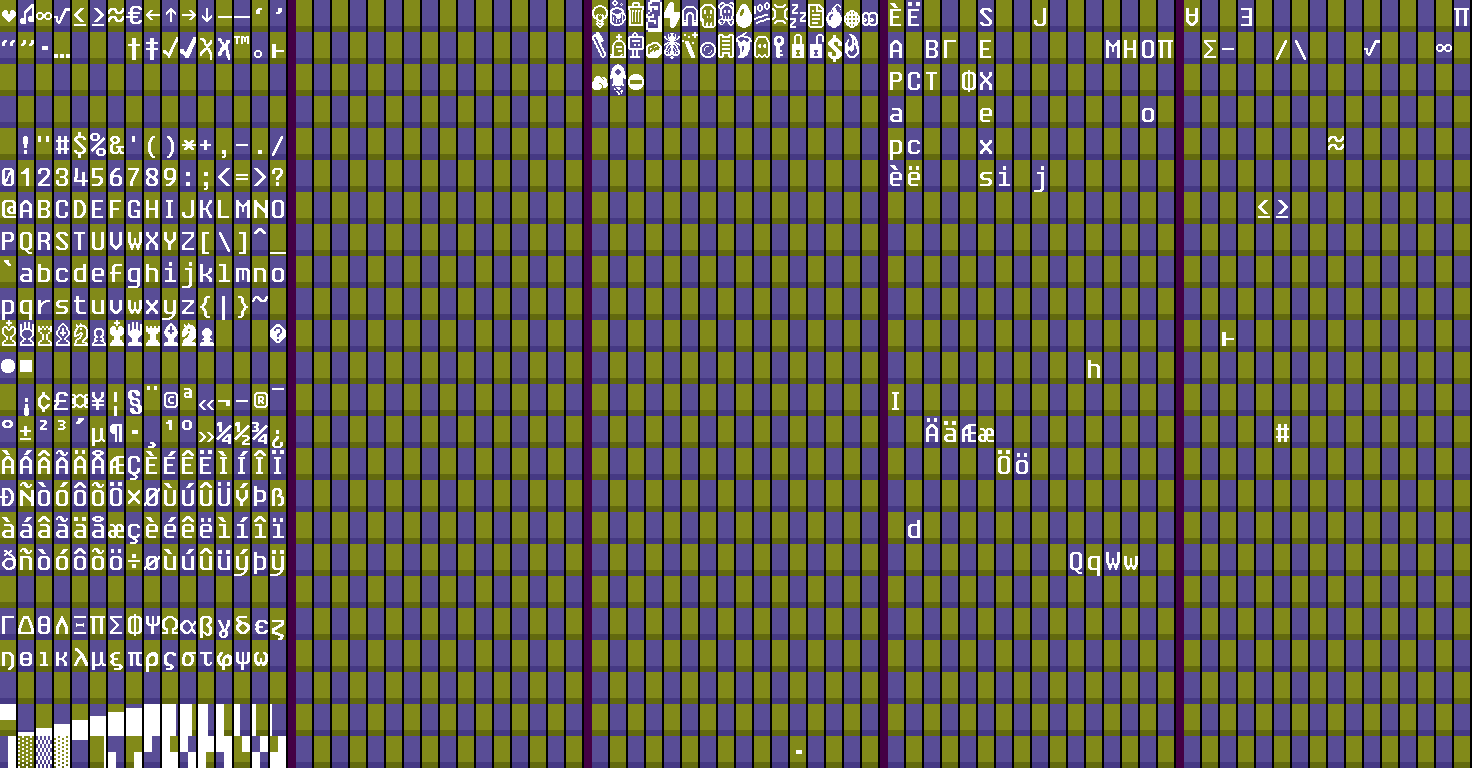
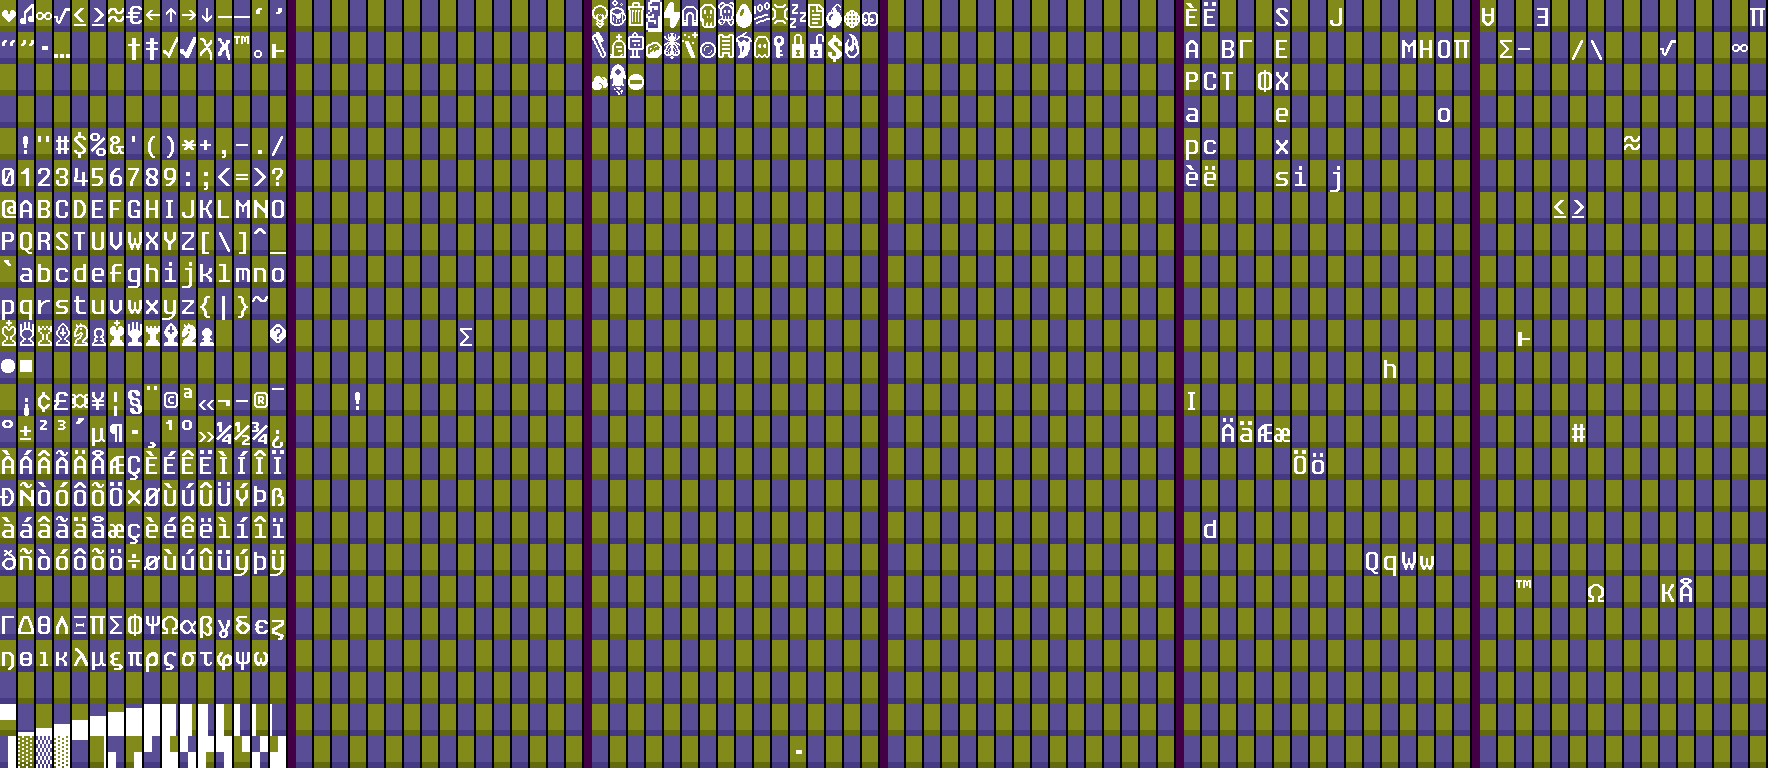
More hand anti-aliasing for 2x. Add extended2 page fixedersys family.
git-svn-id: file:///home/runner/work/tom7misc-sync-action/tom7misc-sync-action/upstream/trunk@6560 c7e11af0-4c7a-11f1-9edd-117cb6f09d55

diff --git a/bit7/font-image.cc b/bit7/font-image.cc
@@ -26,6 +26,7 @@ Page Config::ParsePage(const std::string &p) {
   if (p == "bit7-classic") return Page::BIT7_CLASSIC;
   if (p == "bit7-latinab") return Page::BIT7_LATINAB;
   if (p == "bit7-extended") return Page::BIT7_EXTENDED;
+  if (p == "bit7-extended2") return Page::BIT7_EXTENDED2;
   if (p == "bit7-cyrillic") return Page::BIT7_CYRILLIC;
   if (p == "bit7-math") return Page::BIT7_MATH;
   LOG(FATAL) << "Unknown page " << p;
@@ -39,6 +40,8 @@ const char *Config::PageString(Page p) {
     return "bit7-latinab";
   case Page::BIT7_EXTENDED:
     return "bit7-extended";
+  case Page::BIT7_EXTENDED2:
+    return "bit7-extended2";
   case Page::BIT7_CYRILLIC:
     return "bit7-cyrillic";
   case Page::BIT7_MATH:
@@ -814,6 +817,88 @@ const std::vector<int> &PageBit7Extended() {
 }
 
 
+// Standard size is: 16x24
+const std::vector<int> &PageBit7Extended2() {
+  static const std::vector<int> CODEPOINTS = {
+    // Unicode superscripts and subscripts. Note that
+    // there are some codepoints unassigned, and some
+    // of these symbols appear in other blocks.
+    0x2070, // (⁰) Superscript Zero
+    0x2071, // (ⁱ) Superscript Latin Small Letter I
+    0x2074, // (⁴) Superscript Four
+    0x2075, // (⁵) Superscript Five
+    0x2076, // (⁶) Superscript Six
+    0x2077, // (⁷) Superscript Seven
+    0x2078, // (⁸) Superscript Eight
+    0x2079, // (⁹) Superscript Nine
+    0x207A, // (⁺) Superscript Plus Sign
+    0x207B, // (⁻) Superscript Minus
+    0x207C, // (⁼) Superscript Equals Sign
+    0x207D, // (⁽) Superscript Left Parenthesis
+    0x207E, // (⁾) Superscript Right Parenthesis
+    0x207F, // (ⁿ) Superscript Latin Small Letter N
+    0x2080, // (₀) Subscript Zero
+
+    0x2081, // (₁) Subscript One
+    0x2082, // (₂) Subscript Two
+    0x2083, // (₃) Subscript Three
+    0x2084, // (₄) Subscript Four
+    0x2085, // (₅) Subscript Five
+    0x2086, // (₆) Subscript Six
+    0x2087, // (₇) Subscript Seven
+    0x2088, // (₈) Subscript Eight
+    0x2089, // (₉) Subscript Nine
+    0x208A, // (₊) Subscript Plus Sign
+    0x208B, // (₋) Subscript Minus
+    0x208C, // (₌) Subscript Equals Sign
+    0x208D, // (₍) Subscript Left Parenthesis
+    0x208E, // (₎) Subscript Right Parenthesis
+    0x2090, // (ₐ) Latin Subscript Small Letter A
+
+    0x2091, // (ₑ) Latin Subscript Small Letter E
+    0x2092, // (ₒ) Latin Subscript Small Letter O
+    0x2093, // (ₓ) Latin Subscript Small Letter X
+    0x2094, // (ₔ) Latin Subscript Small Letter Schwa
+    0x2095, // (ₕ) Latin Subscript Small Letter H
+    0x2096, // (ₖ) Latin Subscript Small Letter K
+    0x2097, // (ₗ) Latin Subscript Small Letter L
+    0x2098, // (ₘ) Latin Subscript Small Letter M
+    0x2099, // (ₙ) Latin Subscript Small Letter N
+    0x209A, // (ₚ) Latin Subscript Small Letter P
+    0x209B, // (ₛ) Latin Subscript Small Letter S
+    0x209C, // (ₜ) Latin Subscript Small Letter T
+
+    // Unused
+    -1, -1, -1, -1, -1, -1,
+
+    -1, -1, -1, -1, -1, -1, -1, -1, -1, -1, -1, -1, -1, -1, -1, -1,
+    -1, -1, -1, -1, -1, -1, -1, -1, -1, -1, -1, -1, -1, -1, -1, -1,
+    -1, -1, -1, -1, -1, -1, -1, -1, -1, -1, -1, -1, -1, -1, -1, -1,
+    -1, -1, -1, -1, -1, -1, -1, -1, -1, -1, -1, -1, -1, -1, -1, -1,
+    -1, -1, -1, -1, -1, -1, -1, -1, -1, -1, -1, -1, -1, -1, -1, -1,
+    -1, -1, -1, -1, -1, -1, -1, -1, -1, -1, -1, -1, -1, -1, -1, -1,
+    -1, -1, -1, -1, -1, -1, -1, -1, -1, -1, -1, -1, -1, -1, -1, -1,
+    -1, -1, -1, -1, -1, -1, -1, -1, -1, -1, -1, -1, -1, -1, -1, -1,
+    -1, -1, -1, -1, -1, -1, -1, -1, -1, -1, -1, -1, -1, -1, -1, -1,
+
+    -1, -1, -1, -1, -1, -1, -1, -1, -1, -1, -1, -1, -1, -1, -1, -1,
+    -1, -1, -1, -1, -1, -1, -1, -1, -1, -1, -1, -1, -1, -1, -1, -1,
+    -1, -1, -1, -1, -1, -1, -1, -1, -1, -1, -1, -1, -1, -1, -1, -1,
+    -1, -1, -1, -1, -1, -1, -1, -1, -1, -1, -1, -1, -1, -1, -1, -1,
+    -1, -1, -1, -1, -1, -1, -1, -1, -1, -1, -1, -1, -1, -1, -1, -1,
+    -1, -1, -1, -1, -1, -1, -1, -1, -1, -1, -1, -1, -1, -1, -1, -1,
+    -1, -1, -1, -1, -1, -1, -1, -1, -1, -1, -1, -1, -1, -1, -1, -1,
+    -1, -1, -1, -1, -1, -1, -1, -1, -1, -1, -1, -1, -1, -1, -1, -1,
+    -1, -1, -1, -1, -1, -1, -1, -1, -1, -1, -1, -1, -1, -1, -1, -1,
+    -1, -1, -1, -1, -1, -1, -1, -1, -1, -1, -1, -1, -1, -1, -1, -1,
+    -1, -1, -1, -1, -1, -1, -1, -1, -1, -1, -1, -1, -1, -1, -1, -1,
+    -1, -1, -1, -1, -1, -1, -1, -1, -1, -1, -1, -1, -1, -1, -1, -1,
+  };
+
+  CHECK(CODEPOINTS.size() == 16 * 24) << CODEPOINTS.size();
+  return CODEPOINTS;
+};
+
 const std::vector<int> &PageBit7Cyrillic() {
   static const std::vector<int> CODEPOINTS = {
     // Cyrillic, exactly as Unicode U+0400 to U+04FF.
@@ -1550,6 +1635,7 @@ static const std::vector<int> &GetCodepointsForPage(Page p) {
   case Page::BIT7_CLASSIC: return PageBit7Classic();
   case Page::BIT7_LATINAB: return PageBit7LatinAB();
   case Page::BIT7_EXTENDED: return PageBit7Extended();
+  case Page::BIT7_EXTENDED2: return PageBit7Extended2();
   case Page::BIT7_CYRILLIC: return PageBit7Cyrillic();
   case Page::BIT7_MATH: return PageBit7Math();
   }
@@ -1684,6 +1770,9 @@ REUSE_FOR = {
 
   {0x04E0, 0x01B7}, // Cyrillic Capital Abkhasian Dze -> Ezh
   {0x04E1, 0x0292}, // Lowercase dze -> ezh
+
+  // Math black star to Symbol star
+  {0x22c6, 0x2605},
 
   // Letter-like symbols that are REALLY letter-like.
   // Kelvin

diff --git a/bit7/unicoderange.cc b/bit7/unicoderange.cc
@@ -4,6 +4,10 @@
 
 #include <cstdio>
 #include <cstdint>
+#include <cstdlib>
+#include <unordered_map>
+#include <string>
+#include <vector>
 
 #include "ansi.h"
 #include "base/logging.h"

diff --git a/bit7/reencode.cc b/bit7/reencode.cc
@@ -1,6 +1,7 @@
 // Loads a font from one config, and writes it back out using another.
 
 #include <cstdint>
+#include <cstdio>
 #include <string>
 
 #include "base/logging.h"

diff --git a/bit7/font-image.h b/bit7/font-image.h
@@ -14,6 +14,7 @@ enum class Page {
   BIT7_CLASSIC,
   BIT7_LATINAB,
   BIT7_EXTENDED,
+  BIT7_EXTENDED2,
   BIT7_CYRILLIC,
   BIT7_MATH,
 };
